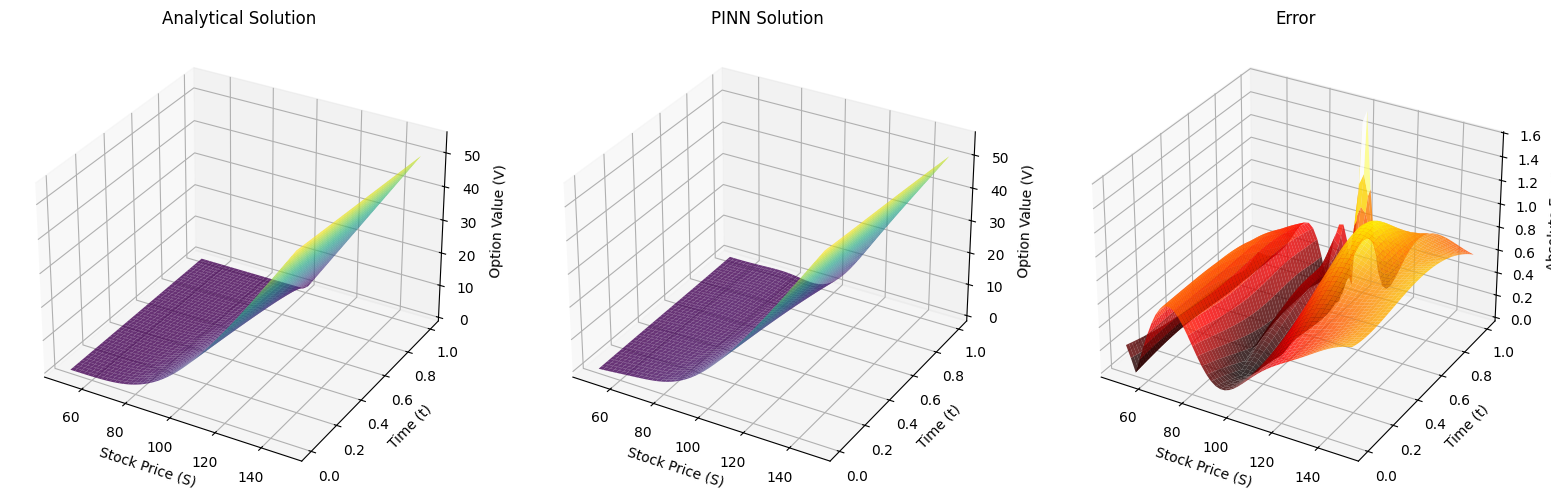
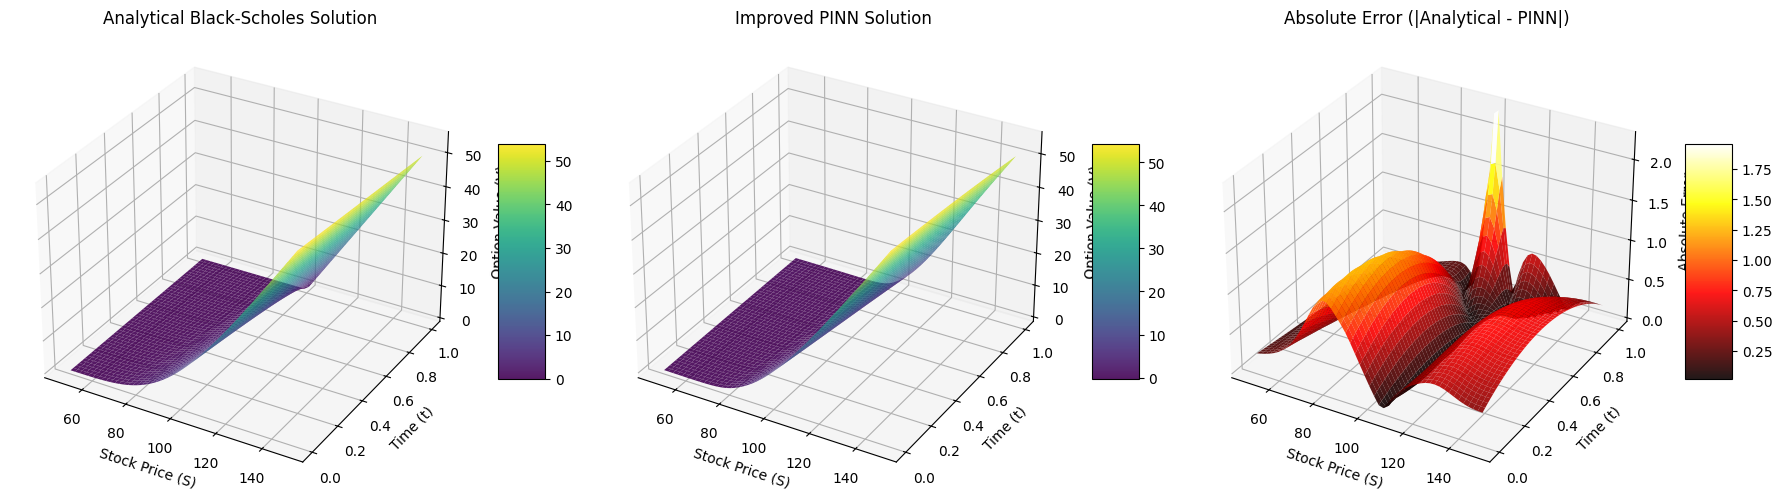
update REAME.md

diff --git a/README.md b/README.md
@@ -10,7 +10,7 @@ This section will be holding the benchmarks of the trained models as we moving t
 
 ### [Black-Scholes equation](black-scholes/black_scholes.ipynb)
 ![image info](./Gallery/black-scholes-pinn-vis.png)
-![image info](./Gallery/black-scholes-slice.png)
+![image info](./Gallery/black-scholes-pinn-vis-2.png)
 
 ### [Helmholtz equation](helmholtz/helmholtz-mfn.ipynb)
 ![image info](./Gallery/helmholtz_pinn_benchmark.png)
